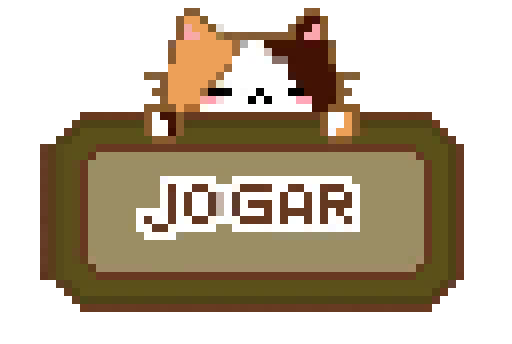
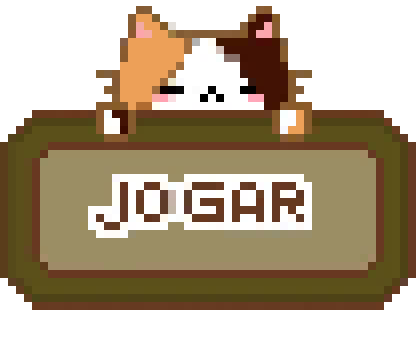
finalizado o modal de configurações, ressalva a resposividade

Changed region(s): [[0.0, 0.0, 1.0, 0.9064]]

diff --git a/telaprincipal.html b/telaprincipal.html
@@ -64,48 +64,41 @@
                     </a>
                     <h1> Configurações </h1>
                 </div>
-                <div class="opcoes-config">
+                <div class="opcoes-config-cima">
                     <div class="opcoes-linha">
                         <h1>Tabuleiro</h1>
                         <select id="tabuleiro" name="tabuleiro">
-                            <option value="3x3">3x3</option>
-                            <option value="4x4">4x4</option>
-                            <option value="5x5">5x5</option>
-                            <option value="6x6">6x6</option>
-                            <option value="7x7">7x7</option>
-                            <option value="8x8">8x8</option>
+                            <option value="2">2x2</option>
+                            <option value="3">3x3</option>
+                            <option value="4">4x4</option>
+                            <option value="5">5x5</option>
+                            <option value="6">6x6</option>
+                            <option value="7">7x7</option>
+                            <option value="8">8x8</option>
                         </select>
                     </div>
                     <div class="opcoes-linha">
                         <h1>Modalidade</h1>
                         <div class="opcoes-modalidade">
-                            <input type="checkbox" class="checkbox" id="md-classico" value="classico">
+                            <input type="radio" class="checkbox" id="md-classico" name="modalidade" value="classico">
                             <label for="md-classico"> Clássica </label>
-                            <img src="img/Gato_Configurações_teste.png">
+                            <img src="img/Gato_Configurações_RS.png" alt="Gato">
 
-                            <input type="checkbox" class="checkbox" id="md-explosivo" value="explosivo">
+                            <input type="radio" class="checkbox" id="md-explosivo" name="modalidade" value="explosivo">
                             <label for="md-explosivo"> Explosiva </label>
-                            <img src="img/Bomba_RS.png">
+                            <img src="img/Bomba_RS.png" alt="Bomba">
                         </div>
                     </div>
-                </div> 
-
-
-                <div class="opcoes-config">
-                    <div class="grupo-select">
-                        <h1>Tabuleiro</h1>
-                        <select id="tabuleiro" name="tabuleiro">
-                            <option value="3x3">3x3</option>
-                            <option value="4x4">4x4</option>
-                            <option value="5x5">5x5</option>
-                            <option value="6x6">6x6</option>
-                            <option value="7x7">7x7</option>
-                            <option value="8x8">8x8</option>
-                        </select>
+                </div>
+                <div class="opcoes-config-baixo">
+                    <div class="opcoes-linha">
+                        <canvas id="preview" width="190" height="230"></canvas>
+                        <script src="js/preview.js"></script>
                     </div>
-                    <div class="grupo-select">
-                        <h1>Modalidade</h1>
-                        
+                    <div class="opcoes-linha">
+                        <a href="jogo.html"> <!--O id aqui é para o js identificar qual modal vai ser aberto, não tem a ver com o css-->
+                            <img src="img/Botão_Jogar_RS.png">
+                        </a>
                     </div>
                 </div>
             </div>

diff --git a/css/telaprincipal.css b/css/telaprincipal.css
@@ -183,7 +183,7 @@ header h1{
 }
 
 #botao-jogar {
-    width: 20vw;
+    width: 15vw;
     height: auto;
     cursor: url('../img/Original/Patinha_Click.png'), auto;
 }
@@ -198,7 +198,7 @@ dialog {
     border-radius: 20px; /*a unidade aqui não está resposiva*/
     box-shadow: 0px 8px 16px rgba(0, 0, 0, 0.3);
 
-    padding: 1.5vw 2.5vw 2.5vw 2.5vw;
+    padding: 3vw 4vw;
     width: 25vw;
     height: 65vh; 
 }
@@ -215,11 +215,14 @@ dialog::backdrop {
     align-items: center;
     justify-content: center;
 
+    position: absolute;
+    top: 1.2vw;
+
     background-color: var(--fresh-butter);
     border: 0.3vw solid var(--moss);
     border-radius: 20px; /*a unidade aqui não está resposiva*/
     
-    padding: 0 1.5vw 0 1.5vw;
+    padding: 1.5vw 2vw;
     width: 25vw;
     height: 65vh;
 }
@@ -238,7 +241,7 @@ dialog::backdrop {
     box-shadow: 0px 4px 4px 0px var(--moss);
 
     padding: 1.5vw;
-    width: 20vw;
+    width: 22vw;
     height: 8vh;
 }
 
@@ -247,7 +250,7 @@ dialog::backdrop {
     font-family: Sunshiney, cursive;
     color: var(--fresh-butter);
     font-weight: 300;
-    font-size: 3.2vw;
+    font-size: 3.5vw;
 }
 
 #botao-voltar{
@@ -256,9 +259,24 @@ dialog::backdrop {
     cursor: url('../img/Original/Patinha_Click.png'), auto;
 }
 
-.opcoes-config{
+.opcoes-config-cima{
     display: flex;
-    gap: 0.5vw;
+    gap: 1vw;
+    padding-top: 1vw;
+    width: 90%;
+}
+
+.opcoes-linha{
+    width: 90%;
+}
+
+.opcoes-config-baixo{
+    display: flex;
+    gap: 1.5vw;
+    padding-top: 1vw;
+    align-items: center;
+    justify-content: center;
+    width: 100%;
 }
 
 .opcoes-linha h1 {
@@ -268,6 +286,24 @@ dialog::backdrop {
     font-weight: 300;
     display: block;
     margin-bottom: 0.5vh;
+    margin-left: 0.5vw;
+}
+
+.opcoes-linha img{
+    width: 13vw;
+    height: auto;
+    cursor: url('../img/Original/Patinha_Click.png'), auto;
+}
+
+.opcoes-linha canvas{
+    position: relative;
+    bottom: 3vw;
+    right: 0.3vw;
+    background-color: var(--moss);
+    border: 0.3vw solid var(--black-bean);
+    border-radius: 20px;
+    box-shadow: 0px 4px 4px 0px #9B8E64;
+
 }
 
 select {
@@ -310,6 +346,8 @@ select:focus {
     background-color: var(--moss);
     border: 0.3vw solid var(--evergreen);
     border-radius: 20px;
+    box-shadow: 0px 4px 4px 0px #A1946A;
+
 
     width: 12vw;
     height: 8vh;
@@ -342,8 +380,11 @@ select:focus {
     cursor: url('../img/Original/Patinha_Click.png'), auto;
 }
 
-.checkbox:focus{
-    background-color: blue;
+.checkbox:checked{
+    background-image: url("../img/Original/Estrela.png");
+    background-repeat: no-repeat;
+    background-position: right -0.4vw center;
+    background-size: 2vw;
 }
 
 footer{

diff --git a/js/preview.js b/js/preview.js
@@ -1,0 +1,101 @@
+const canvas = document.getElementById('preview');
+const ctx = canvas.getContext('2d');
+const selectTabuleiro = document.getElementById('tabuleiro');
+
+const imgCaixa = new Image();
+imgCaixa.src = 'img/jogo/Caixa_RS.png';
+
+let linhas = parseInt(selectTabuleiro.value);
+let colunas = parseInt(selectTabuleiro.value);
+
+let tabuleiro = [];
+
+function inicializarTabuleiro() {
+    let spriteWidth, spriteHeight, passoX, passoY, deslocamentoX;
+
+    if (colunas >= 7) {
+        // 7x7 e 8x8 
+        spriteWidth = 35;
+        spriteHeight = 35;
+        passoX = 20;
+        passoY = 15;
+        deslocamentoX = 10;
+
+    } else if (colunas >= 5) {
+        // 5x5, 6x6
+        spriteWidth = 50;
+        spriteHeight = 50;
+        passoX = 30;
+        passoY = 20;
+        deslocamentoX = 10;
+
+    } else if (colunas >= 3) {
+        // 3x3 e 4x4
+        spriteWidth = 70;
+        spriteHeight = 70;
+        passoX = 45;
+        passoY = 25;
+        deslocamentoX = 20;
+
+    } else { //2x2
+        spriteWidth = 90;
+        spriteHeight = 90;
+        passoX = 60;
+        passoY = 30;
+        deslocamentoX = 30;
+    }
+
+
+    let larguraTotalGrid = ((colunas - 1) * passoX) + deslocamentoX + spriteWidth;
+    let alturaTotalGrid = ((linhas - 1) * passoY) + spriteHeight;
+
+    let inicioX = (canvas.width - larguraTotalGrid) / 2;
+    let inicioY = (canvas.height - alturaTotalGrid) / 2;
+
+    tabuleiro = []; // Limpa o tabuleiro anterior
+    for (let l = 0; l < linhas; l++) {
+        tabuleiro[l] = [];
+        for (let c = 0; c < colunas; c++) {
+            let offsetX = (l % 2 === 1) ? deslocamentoX : 0;
+            let x = inicioX + (c * passoX) + offsetX;
+            let y = inicioY + (l * passoY);
+
+            tabuleiro[l][c] = { x: x, y: y, w: spriteWidth, h: spriteHeight };
+        }
+    }
+}
+
+function desenharTabuleiro() {
+    ctx.clearRect(0, 0, canvas.width, canvas.height);
+
+    for (let l = 0; l < linhas; l++) {
+        for (let c = 0; c < colunas; c++) {
+            let caixa = tabuleiro[l][c];
+
+            if (imgCaixa.complete) {
+                ctx.drawImage(imgCaixa, caixa.x, caixa.y, caixa.w, caixa.h);
+            }
+        }
+    }
+}
+
+selectTabuleiro.addEventListener('change', (event) => {
+    let valor = parseInt(event.target.value);
+
+    linhas = valor;
+    colunas = valor;
+
+    // Recalcula o tabuleiro e desenha novamente
+    inicializarTabuleiro();
+    desenharTabuleiro();
+});
+
+imgCaixa.onload = () => {
+    inicializarTabuleiro();
+    desenharTabuleiro();
+};
+
+if (imgCaixa.complete) {
+    inicializarTabuleiro();
+    desenharTabuleiro();
+}
